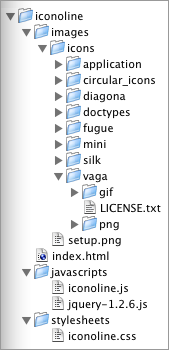
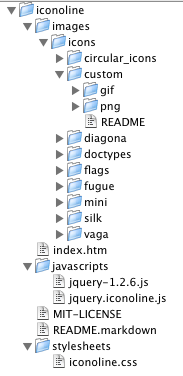
converted js to jQuery plugin, allow custom options, custom pattern matching, no-conflict friendly, updated docs

diff --git a/index.htm b/index.htm
@@ -4,8 +4,15 @@
   <head>
     <meta http-equiv="content-type" content="text/html; charset=iso-8859-1" />
     <script src="javascripts/jquery-1.2.6.js" type="text/javascript" charset="utf-8"></script>
-    <script src="javascripts/iconoline.js" type="text/javascript" charset="utf-8"></script>    
+    <script src="javascripts/jquery.iconoline.js" type="text/javascript" charset="utf-8"></script>   
     <link rel="stylesheet" href="stylesheets/iconoline.css" type="text/css" media="screen" charset="utf-8" />
+    
+    <script type="text/javascript">
+      $(document).ready(function(){
+        $('*').iconoline();
+      });
+    </script>
+     
     
     
     <style type="text/css" media="screen">
@@ -48,6 +55,14 @@
         padding:8px;
         border:1px solid #999;
       }
+      
+      h1 {
+        background:#666;
+        color:#FFF;
+        border:1px solid #000;
+        padding:10px;
+        margin-top:50px;
+      }
     </style>
           
   </head>
@@ -58,14 +73,17 @@
     <!-- FILE LIST EXAMPLE ........................................ -->
     <p><span class="projectheading">Iconoline</span>&nbsp;&nbsp;<span class="tagline">All our icons are belong to us...<strong>and your.</strong></span></p>
     <p class="highlight"><span class="icon-silk-box"><strong>Git</strong> it at <a href="http://www.github.com/bilson/iconoline/tree/master">http://www.github.com/bilson/iconoline/tree/master</a></span></p>
-    <p>Iconoline is essentially a framework (plus 2,500 free icons) to bring sanity to the organization, display and reuse of icons and icon sets across applications.  Iconoline allows you to easily call out icons with a consistent CSS class naming convention that, at it's core, just turns class names into image file path names.  A dash of Javascript makes us able to access thousands of icons with class names in the form of "icon-icon_set_name-icon_filename".  This javascript is written with the help of jQuery, but could probably be easily rewritten for Prototype or just straight up javascript (but not by me)</p>
+    
+    <p><a href="#usage">Usage Examples</a> | <a href="#setup">Setup & Customization</a></p>
+    
+    <p>Iconoline is essentially a jQuery plugin and framework (plus 2,500 free icons) to bring sanity to the organization, display and reuse of icons and icon sets across applications.  Iconoline allows you to easily call out icons with a consistent CSS class naming convention that, at it's core, just turns class names into image file path names.  A dash of Javascript makes us able to access thousands of icons with class names in the form of "icon-icon_set_name-icon_filename".</p>
 
     <h2>icon-icon_set_name-icon_filename</h2>
-    <p>The "icon_set_name" will be the name of the folder within the "/images/icons" directory in which the image is located.  The "icon_filename" matches the true filename of the image (without the ".gif" or ".png" extension)</p>
+    <p>The "icon_set_name" will be the name of the folder within the "/images/icons" directory in which the image is located.  Within each icon set directory is a "gif" and "png" directory.  You may choose to point to images in either (default is "gif").  The "icon_filename" matches the true filename of the image (without the ".gif" or ".png" extension)</p>
     <h5>Examples:</h5>
     <ol>
-      <li><strong>icon-circular_icons-cog</strong> would point to the image at <span class="icon-circular_icons-cog"> (images/icons/circular_icons/cog.gif)</span></li>
-      <li><strong>icon-mini-flag_red</strong> would point to the image at <span class="icon-mini-flag_red"> (images/icons/mini/flag_red.gif)</span></li>
+      <li><strong>icon-circular_icons-cog</strong> would point to the image at <span class="icon-circular_icons-cog"> (images/icons/circular_icons/gif/cog.gif)</span></li>
+      <li><strong>icon-mini-flag_red</strong> would point to the image at <span class="icon-mini-flag_red"> (images/icons/mini/gif/flag_red.gif)</span></li>
     </ol>     
     <p>This framework ships with about <strong>2,500</strong> mini (16x16) icons, all of which are free (Creative Commons license).  You can easily include additional icon sets by dropping them into /images/icons/icon_set_name.  Any icons produced specifically for an application can be placed into /images/icons/custom/.  These can then be called out in the project with the class "icon-custom-icon_filename".</p>
     
@@ -74,8 +92,10 @@
     
     <p><strong>Note:</strong>This is setup to point to various icon sets, but a slight tweak in the paths generated by the Javascript could allow easy switching of skins or anything.</p>
     
+
     
-    <hr />
+    <h1><a name="usage">Usage Examples</a></h1>
+    
     <!-- FILE LIST EXAMPLE ........................................ -->
     <h2>Basic Text Example</h2>
     <p>The javascript will check for the "icon-icon_set_name-icon_filename" on any HTML element.</p>
@@ -260,6 +280,93 @@
         </tr>
       </table>
     <!-- END TABLE EXAMPLE ................................... -->
+
+  
+  
+    <!-- SETUP AND CUSTOMIZATION ................................ -->
+        <h1><a name="setup">Setup & Customization</a></h1>
+
+        <p class="highlight"><span class="icon-silk-box"><strong>Git</strong> it at <a href="http://www.github.com/bilson/iconoline/tree/master">http://www.github.com/bilson/iconoline/tree/master</a></span></p>
+        
+        <p>Make sure that you include jQuery, the Iconoline JS file and link to the Iconoline stylesheet in your document.  The source of this page can be used as an example as it uses the framework throughout.</p>
+<pre><code>
+&lt;script src=&quot;javascripts/jquery-1.2.6.js&quot; type=&quot;text/javascript&quot; charset=&quot;utf-8&quot;&gt;&lt;/script&gt;
+&lt;script src=&quot;javascripts/jquery.iconoline.js&quot; type=&quot;text/javascript&quot; charset=&quot;utf-8&quot;&gt;&lt;/script&gt;   
+&lt;link rel=&quot;stylesheet&quot; href=&quot;stylesheets/iconoline.css&quot; type=&quot;text/css&quot; media=&quot;screen&quot; charset=&quot;utf-8&quot; /&gt;
+</code></pre>
+
+        <p>Once you have pointed to the appropriate scripts you may be just fine with the defaults.  Just add the ready function to your document and call the iconoline function on all page elements.</p>
+        <pre class="highlight"><code>
+        &lt;script type=&quot;text/javascript&quot;&gt;
+          $(document).ready(function(){
+            $(&#39;*&#39;).iconoline();
+          });
+        &lt;/script&gt;
+        </code></pre>
+
+        <h2>Options</h2>
+        <p>If things aren't setup just how you like, you can update a few options through the "defaults" object</p>
+        <ul>
+          <li><strong>format:</strong> Image format...gif or png (default is gif)</li>
+          <li><strong>path:</strong> Initial path to icons...(default is "images/icons")</li>
+          <li><strong>autoIcon:</strong> boolean - Enable/disable the automatic inclusion of icons based upon specific patterns(ie. file extensions) (default is true)</li>
+        </ul>
+        <p>Here is an example of the ready function with alternate defaults set when calling the iconoline function:</p>
+
+        <pre class="highlight"><code>
+        &lt;script type=&quot;text/javascript&quot;&gt;
+          $(document).ready(function(){
+
+            $(&#39;*&#39;).iconoline({
+              format: &#39;png&#39;,
+              autoIcon: false,
+              path: &#39;assets/widgets/img&#39;
+            });
+
+          });
+        &lt;/script&gt;
+        </code></pre>
+        
+        <p>Note:  These defaults could also be called prior to the iconoline call or within another script.  This can be done with the following:</p>
+        
+        <pre class="highlight"><code>
+          $.fn.iconoline.defaults.format = &#39;png&#39;;
+          $.fn.iconoline.defaults.autoIcon = false;
+          $.fn.iconoline.defaults.path = &#39;some/awesome/path&#39;
+        </code></pre>
+
+        <h2>Custom Auto-Icon Mapping</h2>
+        <p>There are a number of auto-icon mappings already setup for common link types such as .pdf, .doc, .xls, and mailto.  You also have the option to override or even add new mappings directly within the ready function.  The default iconoline mappings include the following:</p>
+
+    <pre></code>
+      &#39;a[href^=&quot;mailto:&quot;]&#39;:&#39;icon-silk-email&#39;,
+      &#39;a[href$=&quot;.pdf&quot;]&#39;:&#39;icon-silk-page_white_acrobat&#39;,
+      &#39;a[href$=&quot;.doc&quot;]&#39;:&#39;icon-silk-page_white_word&#39;,
+      &#39;a[href$=&quot;.docx&quot;]&#39;:&#39;icon-silk-page_white_word&#39;,
+      &#39;a[href$=&quot;.xls&quot;]&#39;:&#39;icon-silk-page_white_excel&#39;,
+      &#39;a[href$=&quot;.xlsx&quot;]&#39;:&#39;icon-silk-page_white_excel&#39;,
+      &#39;a[href$=&quot;.txt&quot;]&#39;:&#39;icon-doctypes-txt&#39;,
+      &#39;a[href$=&quot;.ppt&quot;]&#39;:&#39;icon-doctypes-ppt&#39;,
+      &#39;a[href$=&quot;.zip&quot;]&#39;:&#39;icon-doctypes-zip&#39;
+    </code></pre>
+
+        <p>Here is an example of a custom mapping pattern within the ready function:</p>
+
+        <pre class="highlight"><code>
+        &lt;script type=&quot;text/javascript&quot;&gt;
+          $(document).ready(function(){
+
+            // mapping the &quot;.cow&quot; extension
+            $.fn.iconoline.autoIconMap[&#39;a[href$=&quot;.cow&quot;]&#39;] = &#39;icon-doctypes-pdf&#39;
+
+            $(&#39;*&#39;).iconoline();
+
+          });
+        &lt;/script&gt;
+        </code></pre>
+  
+  <!-- END SETUP AND CUSTOMIZATION ................................ -->
+  
   
   </div>
 

diff --git a/javascripts/jquery.iconoline.js b/javascripts/jquery.iconoline.js
@@ -1,0 +1,84 @@
+(function($) {
+
+  $.fn.iconoline = function(options) {
+    // Extend our default options with those provided.
+    // Note that the first arg to extend is an empty object -
+    // this is to keep from overriding our "defaults" object.
+  	var opts = $.extend({}, $.fn.iconoline.defaults, options);
+    
+    // if the "autoIcon" behavior is enabled (it is by default)
+    // then consult the "mapping" function for matching patterns and add appropriate classes
+    if(opts.autoIcon){
+      $.each( mapping, function(k, v) {
+        $(k).addClass(v);
+      });
+    }
+
+    // find all elements with a class matching the "icon-folder_name-image_name" convention
+    this.filter (function(){
+      return $(this).attr('className').match(/icon-(\w*)-(\w*)/);
+    }).each( function(){ 
+      var i = 0;
+      var classNames = $(this).attr('className').split(' ');
+      var valid_class = '';
+      while(i <= classNames.length - 1){ 
+        if(classNames[i].match(/icon-(\w*)-(\w*)/)){
+          valid_class = classNames[i];
+        }
+        i = i + 1;
+      }
+      var icon_path = valid_class.split('-');
+    
+      // add the appropriate background image
+      // Note:  You can choose to point to png or gif (or anything else)
+      $(this).css('background-image','url(' + opts.path + '/' + icon_path[1] + '/' + opts.format + '/' + icon_path[2] + '.' + opts.format + ')');
+    
+      // add the "iconic" class which will set up appropriate spacing, padding, margins, etc.
+      $(this).addClass('iconic');
+    })
+
+    // disable auto icon behavior for a single element
+    $('.no-icon').css({backgroundImage:"none", margin:0, padding:0});
+
+    // disable the auto icon behavior for an entire table
+    $('table.no-icons a').css({backgroundImage:"none", margin:0, padding:0});
+
+    // disable auto icon behavior for a list - note that we aren't setting the margin and padding
+    // to 0 because ul's often represent navigation
+    $('ul.no-icons a, ol.no-icons a').css({backgroundImage:"none"});
+
+  };
+  
+  // default mapping for common document types
+  // add more or override in onReady...
+  // Example:  $.fn.iconoline.autoIconMap['a[href$=".my_extension"]'] = 'icon-doctypes-whatever'
+  var mapping = $.fn.iconoline.autoIconMap = {
+	  'a[href^="mailto:"]':'icon-silk-email',
+	  'a[href$=".pdf"]':'icon-silk-page_white_acrobat',
+	  'a[href$=".doc"]':'icon-silk-page_white_word',
+	  'a[href$=".docx"]':'icon-silk-page_white_word',
+	  'a[href$=".xls"]':'icon-silk-page_white_excel',
+	  'a[href$=".xlsx"]':'icon-silk-page_white_excel',
+	  'a[href$=".txt"]':'icon-doctypes-txt',
+	  'a[href$=".ppt"]':'icon-doctypes-ppt',
+	  'a[href$=".zip"]':'icon-doctypes-zip'
+	};
+	
+  //
+  // plugin defaults
+  // scripts can now get at these defaults with...
+  // Example:  $.fn.iconoline.defaults.format = 'png'
+  $.fn.iconoline.defaults = {
+    // point to either gif or png icon images
+		format: 'gif',
+		// by default icons are located in /images/icons/icon-set-name/gif/
+		// the "gif" portion of the path will be changed to png automatically if the format is changed
+		// the /images/icons path can be changed, but the icon-set-name portion will need
+		// to be changed within the code
+		path: 'images/icons',
+		// enable/disable the auto-inclusion of icons based upon patterns
+		// included in the mapping object
+		autoIcon: true 
+	};
+
+})(jQuery);
